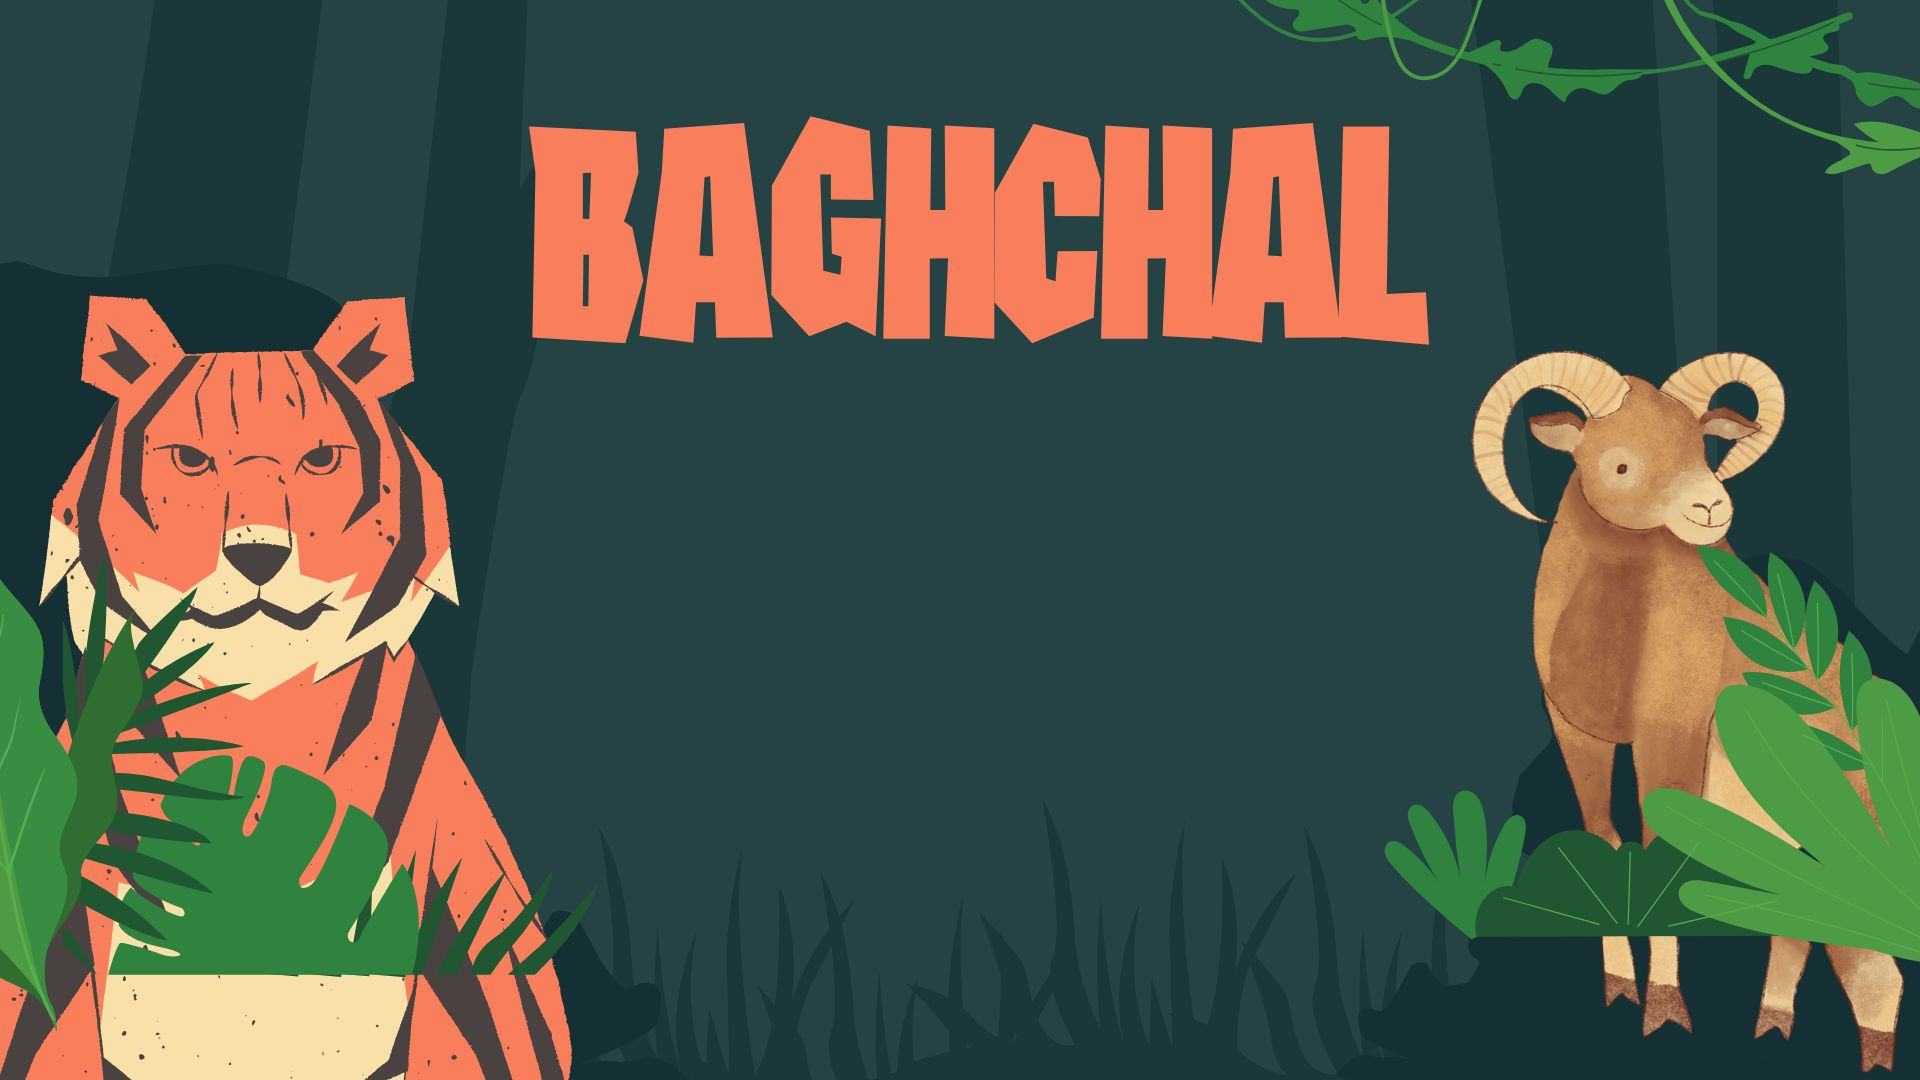
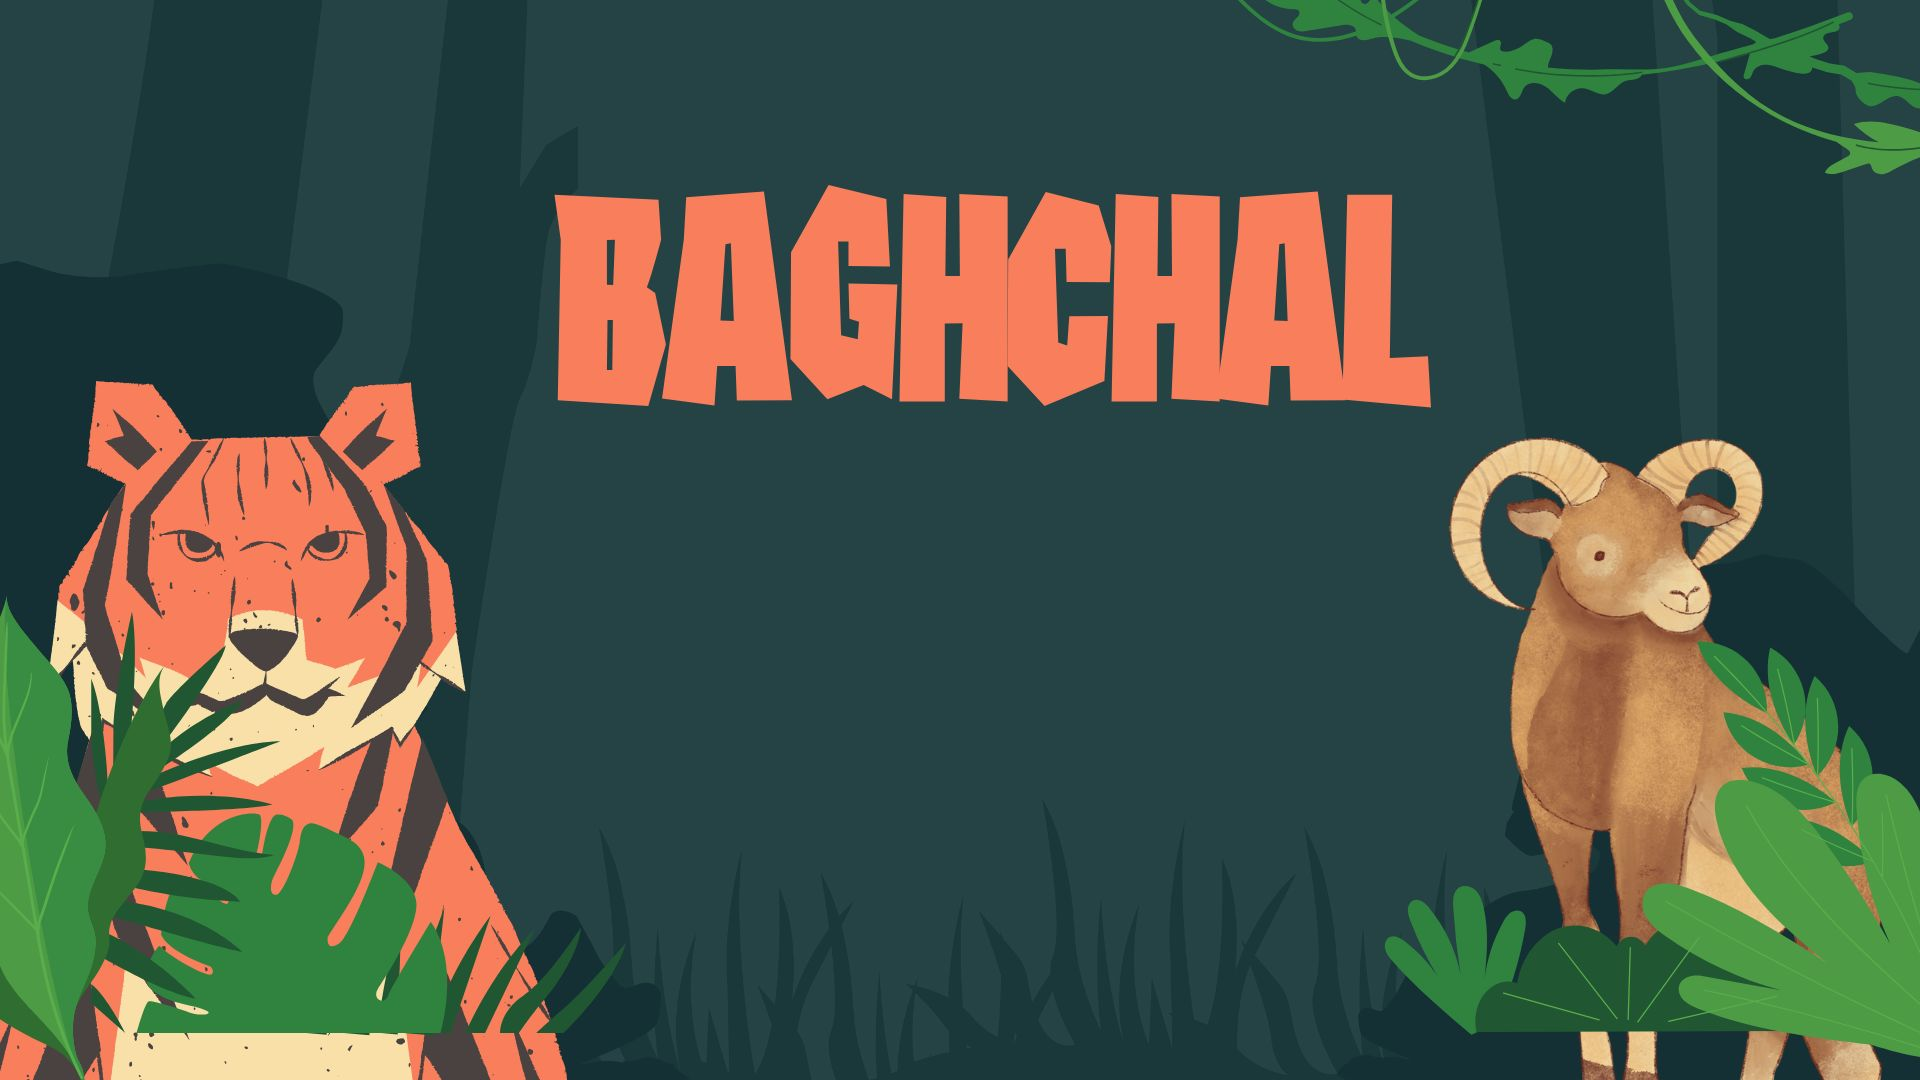
Multiplayer complete

Changed region(s): [[0.25, 0.0917, 1.0, 1.0], [0.0, 0.275, 0.3125, 1.0]]

diff --git a/src/app/game/_components/Board.tsx b/src/app/game/_components/Board.tsx
@@ -113,8 +113,8 @@ export default function Board() {
 
 
   return (
-    <div className="w-full relative h-screen bg-[#143034] flex items-center justify-center bg-[url(/layout.jpg)]">
-      <div className="relative h-[500px] w-[500px] border-2 border-white grid grid-cols-4 grid-rows-4 -translate-x-[5rem]  scale-125">
+    <div className="w-full relative h-screen bg-[#143034] flex items-center justify-center p-4 bg-[url(/layout.jpg)] bg-no-repeat bg-center bg-cover">
+      <div className="relative h-[500px] w-[500px] border-2 border-white grid grid-cols-4 grid-rows-4 -translate-x-10">
         {/* Grid cells */}
         {Array.from({ length: 16 }).map((_, idx) => (
           <div key={idx} className="border-2 border-white"></div>
@@ -181,7 +181,7 @@ export default function Board() {
 
 
                 {
-                  board[i][j] === 0 && <div className={`absolute cursor-pointer h-[60px] w-[60px]  bg-white rounded-full ${available_position_fornow.some(([x, y] : any) => x === i && y === j) ? 'border-2 border-[#30833f] bg-[#30833f]/50' : ''}`}
+                  board[i][j] === 0 && <div className={`absolute cursor-pointer h-[60px] w-[60px] rounded-full ${available_position_fornow.some(([x, y] : any) => x === i && y === j) ? 'border-2 border-[#30833f] bg-[#30833f]/50' : ''}`}
                   
                   onClick={() => {
                       if(turn === 'goat') {
@@ -282,54 +282,54 @@ export default function Board() {
       </div>
 
 
-      <div className="absolute top-5 right-5 w-[35rem] h-[15rem] flex items-center bg-[url(/inf.png)]  bg-center bg-cover justify-center">
+      <div className="absolute top-5 right-5 w-[22rem] h-[10rem] flex items-center bg-[url(/inf.png)]  bg-center bg-cover justify-center">
             <div className="flex items-center gap-4 mt-6">
                 <div className="flex flex-col items-center gap-2">
-                  <p className="text-white text-3xl text-[black]">Tiger Blocked</p>
-                  <p className="text-white text-3xl text-[black]">{tigerBlocked}</p>
+                  <p className="text-xl text-[black]">Tiger Blocked</p>
+                  <p className="text-xl text-[black]">{tigerBlocked}</p>
                 </div>
                 <div className="flex flex-col items-center gap-2">
-                  <p className="text-3xl text-[black]">Goat Eaten</p>
-                  <p className="text-white text-3xl text-[black]">{capturedGoats}</p>
+                  <p className="text-xl text-[black]">Goat Eaten</p>
+                  <p className="text-xl text-[black]">{capturedGoats}</p>
                 </div>
             </div>
       </div>
 
 
-      <div className="absolute bottom-5 right-5 w-[35rem] h-[15rem] flex items-center bg-[url(/detail.png)]  bg-center bg-cover justify-center">
+      <div className="absolute bottom-5 right-5 w-[22rem] h-[10rem] flex items-center bg-[url(/detail.png)]  bg-center bg-cover justify-center">
             <div className="flex items-center gap-8 mt-6">
                 <div className="flex items-center gap-2">
-                  <div className=" border-2 bg-green-700 h-[60px] w-[60px]  border-white rounded-full">
-                  <Image src="/goat.png" alt="tiger" width={60} height={60} />
+                  <div className=" border-2 bg-green-700 h-[50px] w-[50px]  border-white rounded-full">
+                  <Image src="/goat.png" alt="tiger" width={50} height={50} />
 
                   </div>
-                  <p className="text-white text-4xl text-[black]">Goat</p>
+                  <p className="text-xl text-[black]">Goat</p>
                 </div>
                 <div className="flex items-center gap-2">
-                  <div className=" border-2 bg-red-700 h-[60px] w-[60px] border-white rounded-full">
-              <Image src="/tiger.png" alt="tiger" width={60} height={60} />
+                  <div className=" border-2 bg-red-700 h-[50px] w-[50px] border-white rounded-full">
+              <Image src="/tiger.png" alt="tiger" width={50} height={50} />
 
                   </div>
-                  <p className="text-4xl text-[black]">Tiger</p>
+                  <p className="text-xl text-[black]">Tiger</p>
                 </div>
             </div>
       </div>
 
-      <div className="absolute bottom-5 left-5 bg-[url(/audio_wooden.png)]  w-[15rem] h-[15rem] flex justify-center items-center bg-center bg-cover p-3 rounded-full cursor-pointer" >
+      <div className="absolute bottom-5 left-5 bg-[url(/audio_wooden.png)]  w-[10rem] h-[10rem] flex justify-center items-center bg-center bg-cover p-3 rounded-full cursor-pointer" >
         <button
         onClick={() => setMuted(!muted)}
-        className="bg-transparent mt-[-2rem]"
+        className="bg-transparent mt-[-1rem]"
       >
-        {muted ? <VolumeX size={64} color="black" /> : <Volume2 size={64} color="black" />}
+        {muted ? <VolumeX size={44} color="black" /> : <Volume2 size={44} color="black" />}
       </button>
       </div>
 
-      <div className="absolute top-5 left-5 bg-[url(/back.png)]  w-[20rem] h-[10rem] flex justify-center items-center bg-center bg-cover p-3 rounded-full cursor-pointer" >
+      <div className="absolute top-5 left-5 bg-[url(/back.png)]  w-[10rem] flex h-[5rem] justify-center items-center bg-center bg-cover p-3 rounded-full cursor-pointer" >
       <Link href="/">
       <button
         className="bg-transparent"
       >
-            <p className="text-4xl text-[black]">Back</p>
+            <p className="text-xl text-[black]">Back</p>
       </button>
 
       </Link>

diff --git a/src/app/page.tsx b/src/app/page.tsx
@@ -17,14 +17,14 @@ export default function Home() {
 
 
   return (
-    <main className="flex min-h-screen flex-col justify-end  p-24 bg-[url(/BaghChal.jpg)] relative overflow-hidden scroll-hidden">
+    <main className="flex min-h-screen flex-col justify-end p-4 bg-[url(/BaghChal.jpg)] bg-no-repeat bg-center bg-cover relative overflow-hidden scroll-hidden">
       {/* Click Sound */}
       <audio ref={clickAudioRef} src="/click-sound.mp3" preload="auto" />
 
-      <div className="flex flex-col self items-center justify-center space-y-5">
+      <div className="flex flex-col self items-center justify-center space-y-1">
       <Link href="/game">
       <button
-        className="w-[26rem]  h-[8rem] text-[#000] text-[2rem] translate-x-8 translate-y-4 text-4xl p-3 rounded-full active:scale-90 transition-all bg-[url(/wooden.png)] bg-center bg-cover  hover:translate-y-2"
+        className="w-[20rem]  h-[8rem] text-[#000] text-[2rem] translate-x-8 translate-y-4 text-2xl p-3 rounded-full active:scale-90 transition-all bg-[url(/wooden.png)] bg-center bg-cover  hover:translate-y-2"
         
       >
         Mutilple Player
@@ -32,30 +32,30 @@ export default function Home() {
 
       </Link>
 
-      <button
-        className="w-[26rem]  h-[8rem] text-[#000] text-[2rem] translate-x-8 translate-y-4 text-4xl p-3 rounded-full active:scale-90 transition-all bg-[url(/wooden.png)] bg-center bg-cover  hover:translate-y-2"
+      {/* <button
+        className="w-[26rem] h-[8rem] text-[#000] text-[2rem] translate-x-8 translate-y-4 text-2xl p-3 rounded-full active:scale-90 transition-all bg-[url(/wooden.png)] bg-center bg-cover  hover:translate-y-2"
         
       >
         Play with AI as Tiger
-      </button>
+      </button> */}
 
       <button
-        className="w-[26rem]  h-[8rem] text-[#000] text-[2rem] translate-x-8 translate-y-4 text-4xl p-3 rounded-full active:scale-90 transition-all bg-[url(/wooden.png)] bg-center bg-cover  hover:translate-y-2"
+        className="w-[20rem]  h-[8rem] text-[#000] text-[2rem] translate-x-8 translate-y-4 text-2xl p-3 rounded-full active:scale-90 transition-all bg-[url(/wooden.png)] bg-center bg-cover  hover:translate-y-2"
         
       >
-        Play with AI as Goat
+        Play with AI
       </button>
 
       </div>
 
 
       {/* Mute Button */}
-      <div className="absolute bottom-5 left-5 bg-[url(/audio_wooden.png)]  w-[15rem] h-[15rem] flex justify-center items-center bg-center bg-cover p-3 rounded-full cursor-pointer" >
+      <div className="absolute bottom-5 left-5 bg-[url(/audio_wooden.png)]  w-[10rem] h-[10rem] flex justify-center items-center bg-center bg-cover p-3 rounded-full cursor-pointer" >
         <button
         onClick={() => setMuted(!muted)}
-        className="bg-transparent mt-[-2rem]"
+        className="bg-transparent mt-[-1rem]"
       >
-        {muted ? <VolumeX size={64} color="black" /> : <Volume2 size={64} color="black" />}
+        {muted ? <VolumeX size={44} color="black" /> : <Volume2 size={44} color="black" />}
       </button>
       </div>
 

diff --git a/src/app/game/page.tsx b/src/app/game/page.tsx
@@ -7,14 +7,14 @@ import {
 import Tree from "./_components/Tree";
 export default function Game() {
     return (<>
-      {/* <ResizablePanelGroup direction='horizontal' className='w-[100%] h-[100%]'> */}
-      {/* <ResizablePanel> */}
+      {/* <ResizablePanelGroup direction='horizontal' className='w-[100%] h-[100%]'>
+      <ResizablePanel> */}
             <Board />
-        {/* </ResizablePanel> */}
-        {/* <ResizableHandle /> */}
-        {/* <ResizablePanel> */}
-            {/* <Tree /> */}
         {/* </ResizablePanel>
-    </ResizablePanelGroup> */}
+        <ResizableHandle />
+        <ResizablePanel>
+            <Tree />
+         </ResizablePanel>
+    </ResizablePanelGroup>  */}
     </>)
 }
